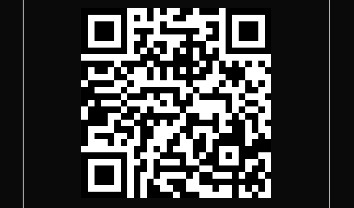
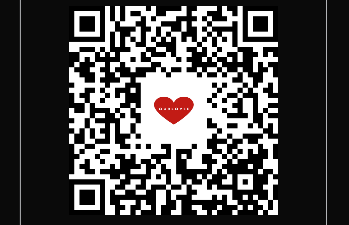
update land

diff --git a/heart-app/components/landingpage/discoverApp.tsx b/heart-app/components/landingpage/discoverApp.tsx
@@ -3,11 +3,14 @@ import Countdown from "../Countdown";
 
 export default function DiscoverApp() {
   const data = new Date();
+  data.setFullYear(data.getFullYear() -2); // Adiciona 1 ano
+  data.setMonth(data.getMonth() + 3);
+
     return (
       <div className=" bg-gradient-to-r from-red-600 to-red-500 py-24 sm:py-32">
         <div className="mx-auto max-w-2xl px-6 lg:max-w-7xl lg:px-8">
         <div>
-          <h2 className="text-center text-base/7 font-semibold">O que oferecemos</h2>
+          <h2 className="text-center text-base/7 font-semibold text-black">O que oferecemos</h2>
           <p className="mx-auto mt-2 max-w-lg text-center text-4xl font-semibold tracking-tight text-balance sm:text-5xl">
           Vários Recursos
           </p>

diff --git a/heart-app/components/QrCodeGnerator.tsx b/heart-app/components/QrCodeGnerator.tsx
@@ -30,7 +30,18 @@ const QRCodeGenerator: React.FC<QRCodeGeneratorProps> = ({ dynamicPath }) => {
   return (
     <div className="flex flex-col items-center gap-4 p-4 border rounded-lg shadow-md">
       <div ref={qrRef}>
-        <QRCodeCanvas value={fullUrl} size={200} />
+      <QRCodeCanvas
+        value={fullUrl}
+        size={220} // Aumente o tamanho total
+        level="H" // Máximo nível de correção de erro
+        imageSettings={{
+          src: "/heart.png",
+          height: 60, // Diminua um pouco o tamanho da imagem
+          width: 60,
+          excavate: true,
+        }}
+      />
+
       </div>
       <p className="text-sm text-gray-500 break-words">{fullUrl}</p>
       <button
